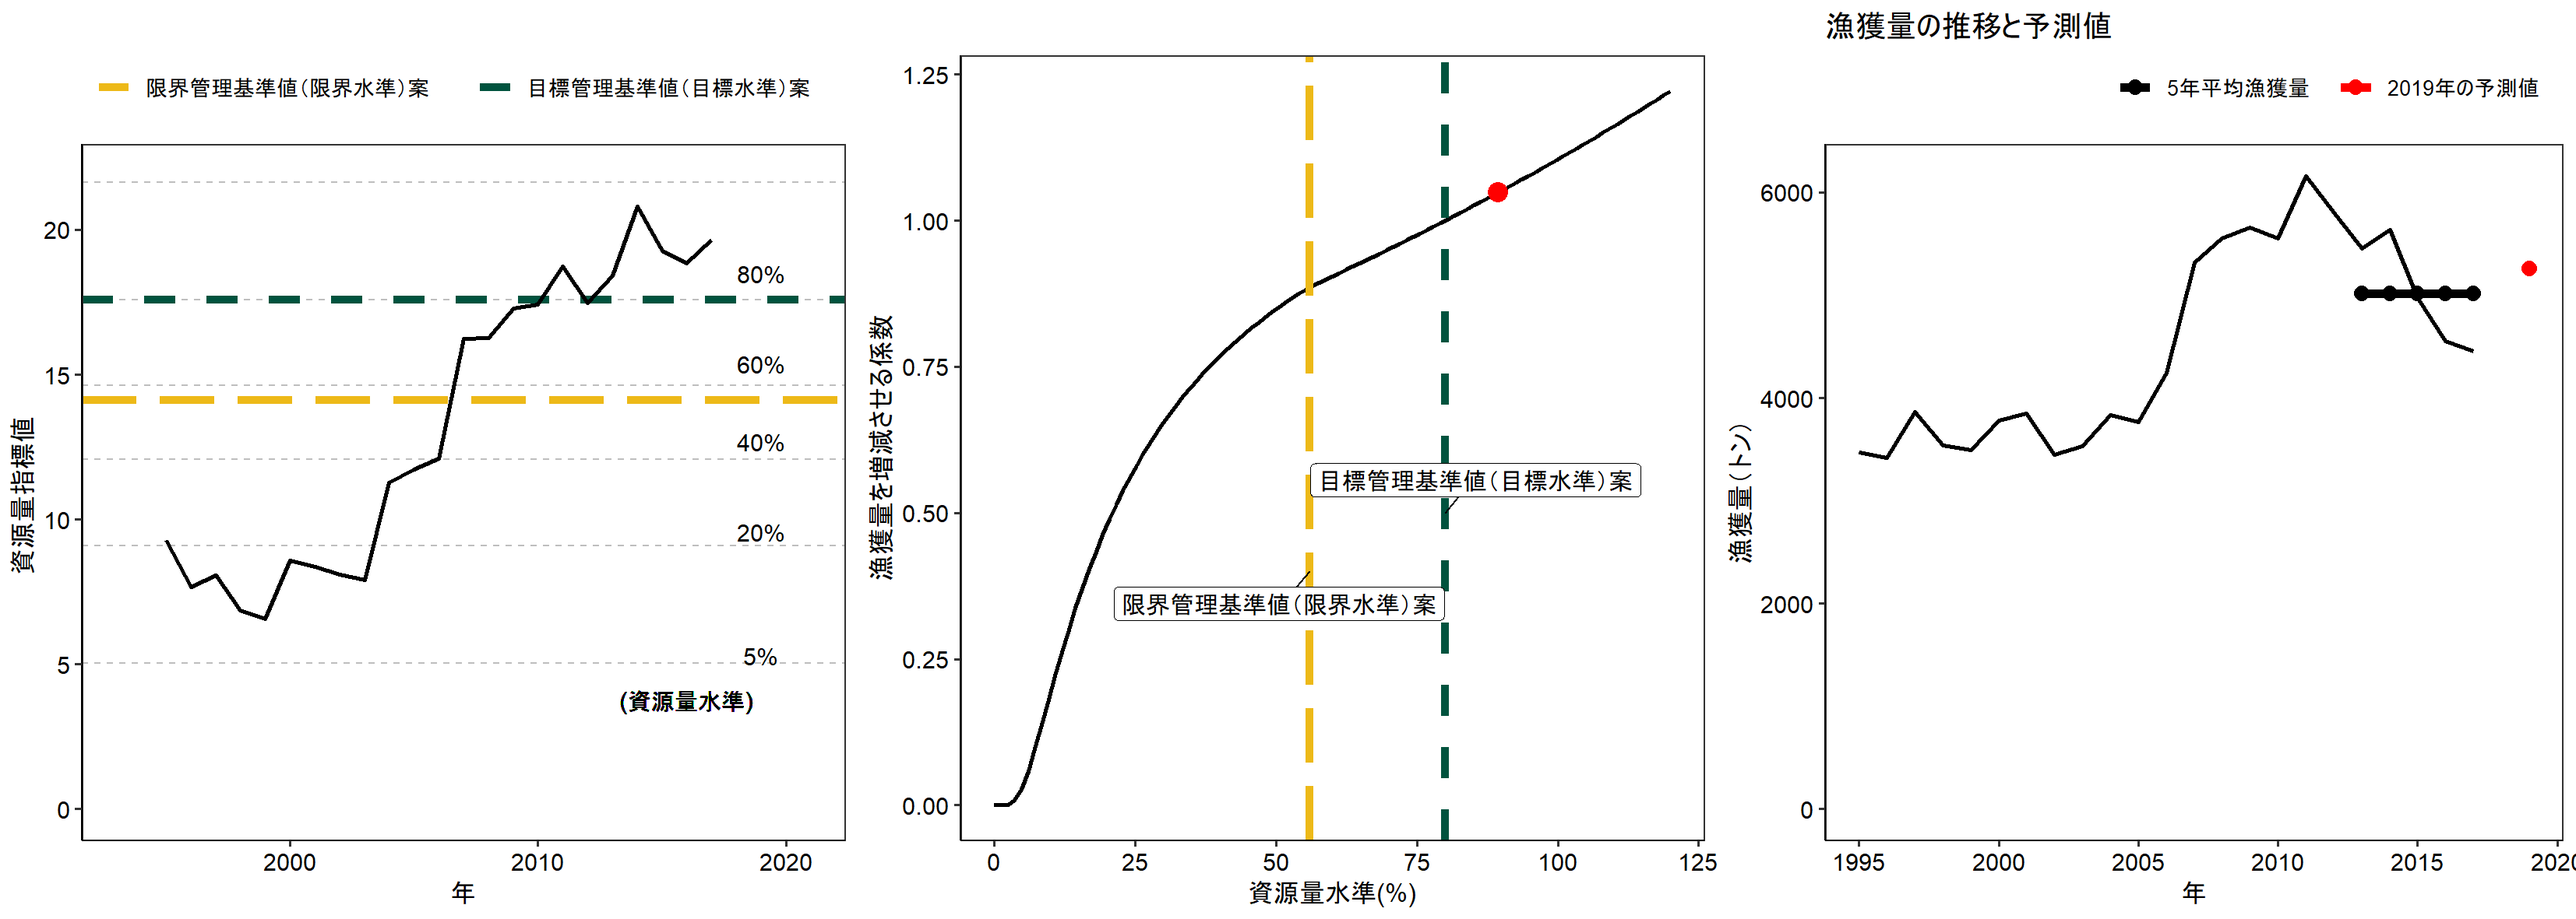
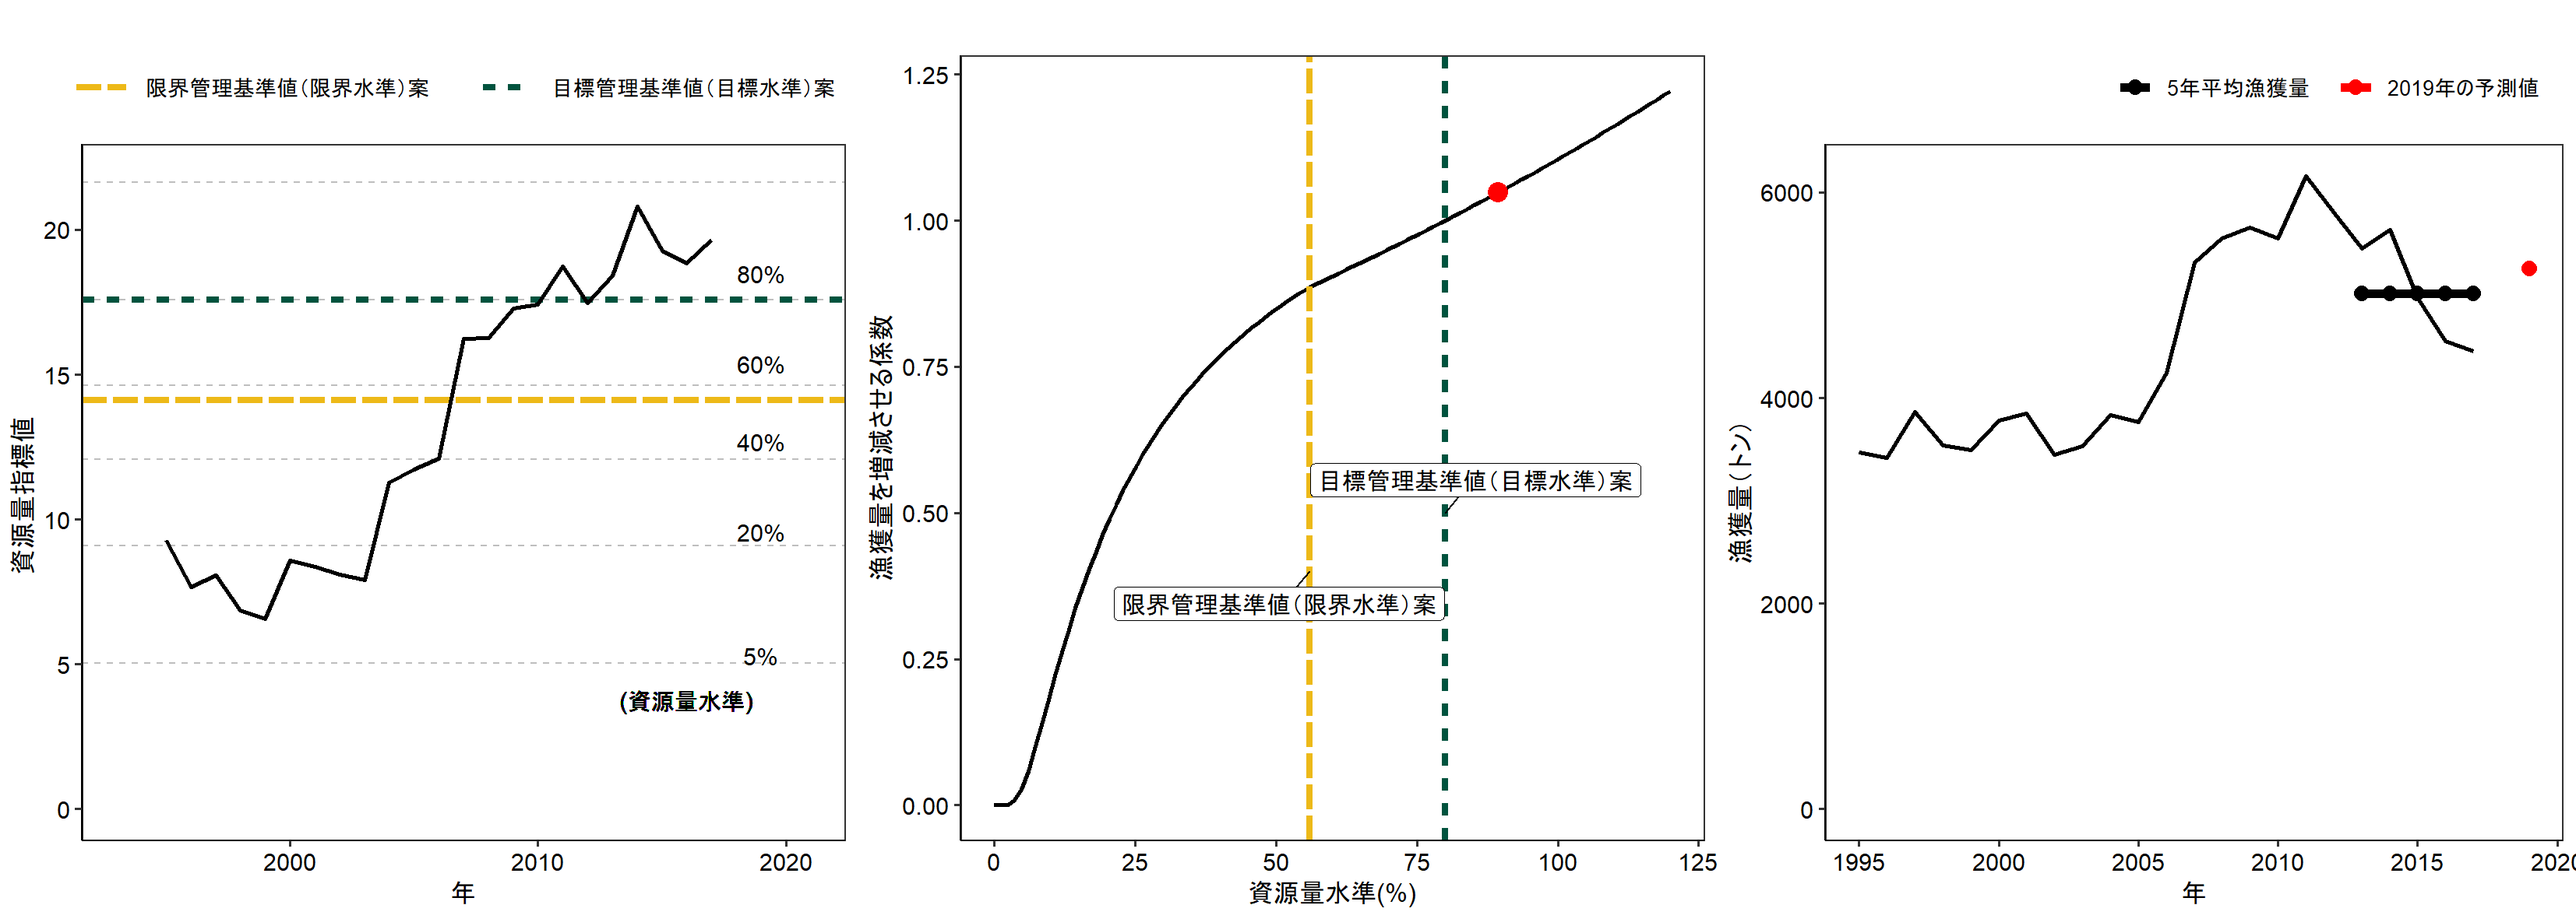
修正に合わせてREADMEを更新
凡例デザイン改善、資源量指標値の図から基準値の重ね描きON/OFF、基準値の案の表記ON/OFFに対応

diff --git a/README.md b/README.md
@@ -52,8 +52,12 @@ graph2_ex <- plot_abc2(abc2_ex,fishseason=1)
 graph2_ex <- plot_abc2(abc2_ex,fishseason=1,detABC=1)
 # 提案段階のため「漁獲量の予測値」として示す場合で、かつ漁期が暦の年に一致しない場合
 graph2_ex <- plot_abc2(abc2_ex,fishseason=1,detABC=2)
+# 目標水準・限界水準・禁漁水準が確定して案を外す場合
+graph2_ex <- plot_abc2(abc2_ex,fishseason=1,proposal=FALSE)
 # 資源量指標値の時系列グラフの背景に水準を境界とした色を塗りたい場合（かつ資源量指標値に単位を付ける場合）
 graph2_ex <- plot_abc2(abc2_ex,fishseason=1,detABC=2,fillarea=TRUE, cpueunit="（トン/網）")
+# 資源量指標値の時系列グラフに目標水準・限界水準を重ね描きしない場合（評価報告書作成用）
+graph2_ex <- plot_abc2(abc2_ex,fishseason=1,RP=FALSE)
 
 # 2系の水準計算を準用する跨り資源の場合
 abc4_ex <- calc_abc2(data_example, BT=0.5)
@@ -92,9 +96,18 @@ graph2_aka <- plot_abc2(abc2_aka, detABC=2, fillarea=FALSE)
 # 資源量指標値の図だけ抜き出し、かつ色を塗ってみる（かつ資源量指標値に単位を付けてみる）
 graph2_aka <- plot_abc2(abc2_aka, detABC=2, fillarea=TRUE, cpueunit="（トン/網）")
 # グラフをセーブする場合
-# ggsave(width=140,height=105,dpi=200,units="mm", graph2_aka$graph.component[[1]], file="aka2cpue.png")
+# ggsave(width=140,height=105,dpi=200,units="mm", graph2_aka$graph.component[[1]], file="aka2cpue_fill.png")
 ```
-![](tools/aka2cpue.png)		
+![](tools/aka2cpue_fill.png)		
+
+
+```
+# 資源量指標値の図だけ抜き出すが、目標水準・限界水準は描画しない
+graph2_aka <- plot_abc2(abc2_aka, detABC=2, fillarea=FALSE, RP=FALSE, cpueunit="（トン/網）")
+# グラフをセーブする場合
+# ggsave(width=140,height=105,dpi=200,units="mm", graph2_aka$graph.component[[1]], file="aka2cpue_woRP.png")
+```
+![](tools/aka2cpue_woRP.png)		
 
 
 ```	  	   	
